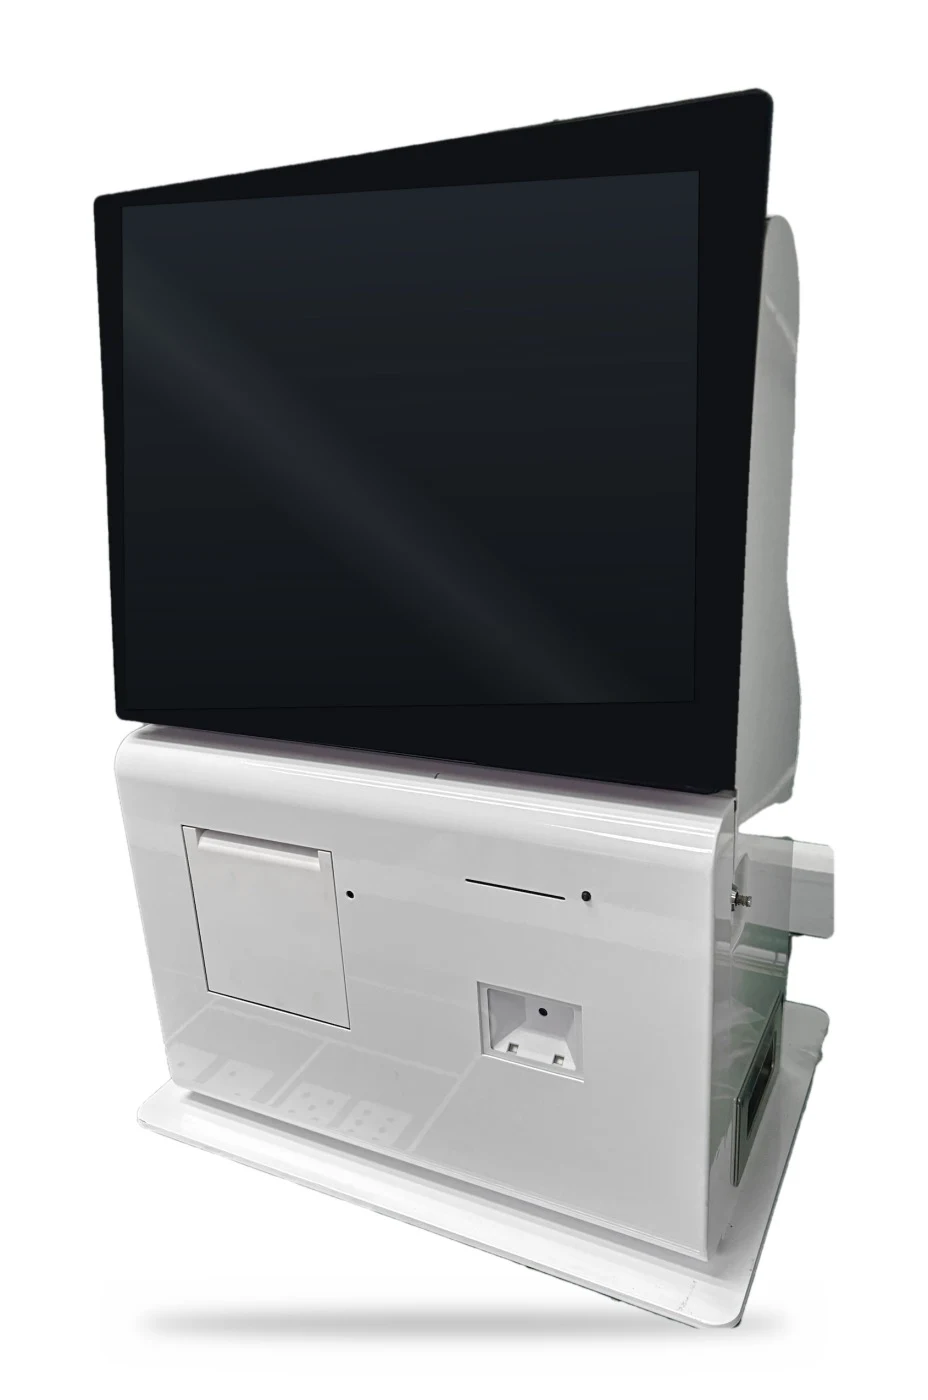
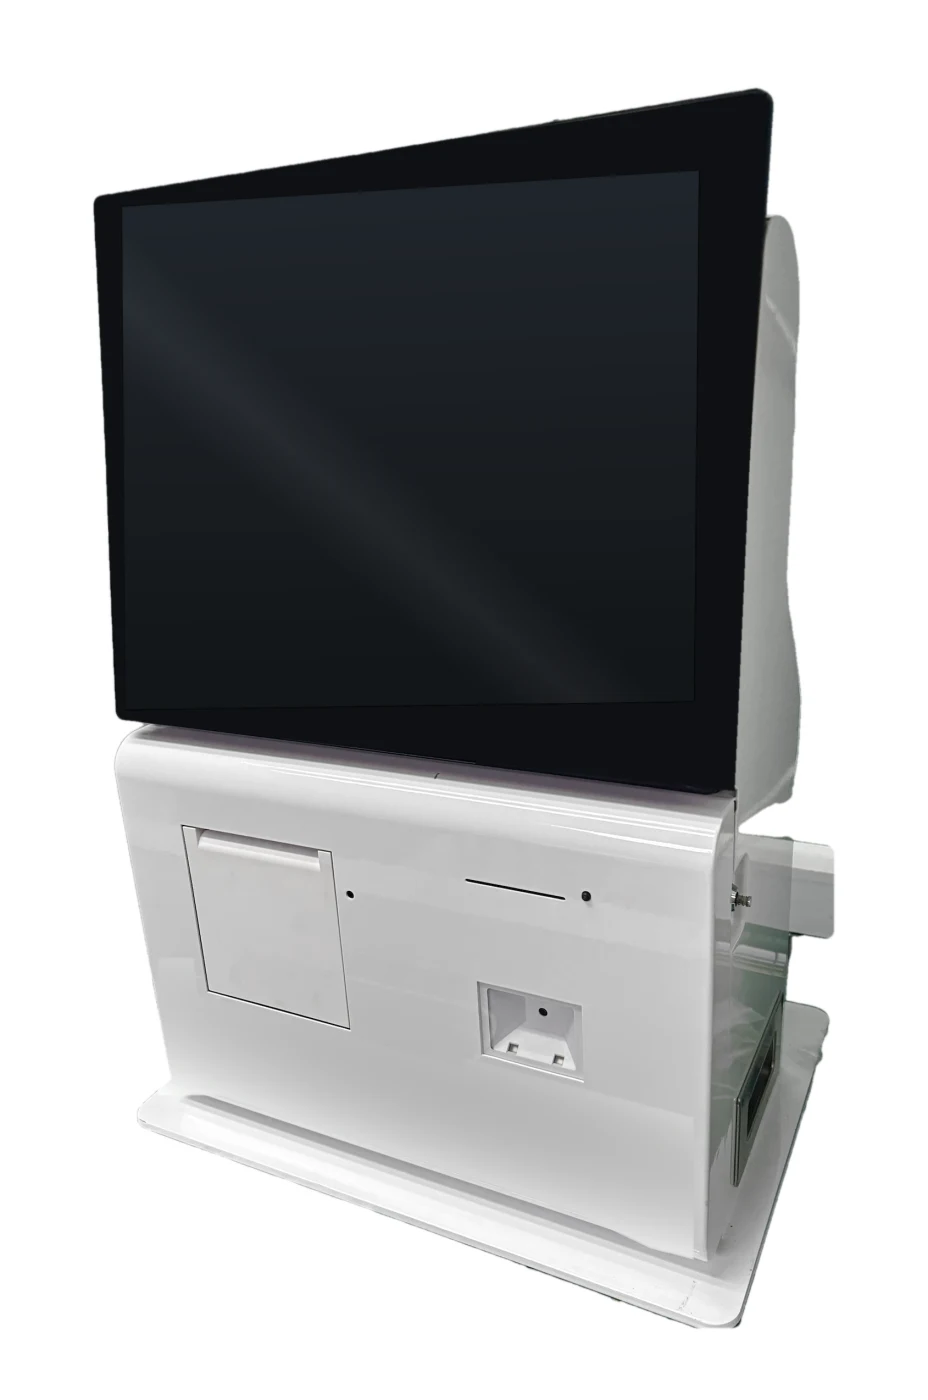
Kiosk photos: remove panel reflections and floor shadow

Changed region(s): [[0.1875, 0.9214, 0.8125, 0.9829]]

diff --git a/jp/edge-ai.html b/jp/edge-ai.html
@@ -304,7 +304,7 @@ header 結束
 <section class="sx-sec alt"><div class="container">
 <h2>Pandora の活用例</h2>
 <p class="lede">Project Pandora 展示会では、1台の Pandora が SMC の卓上型キオスクの中で3つのライブデモを動かしました。</p>
-<div class="sx-product"><figure><img src="/img/solutions/pandora-kiosk-front.webp" alt="Pandora を搭載した SMC 卓上型キオスク" width="1200" height="1600"></figure><ul>
+<div class="sx-product"><figure><img src="/img/solutions/pandora-kiosk-front.webp?v=2" alt="Pandora を搭載した SMC 卓上型キオスク" width="1200" height="1600"></figure><ul>
 <li>スマート物流：RFID 通い箱フローのリアルタイム看板</li>
 <li>スマートリテール：スキャン・現金・レシートのセルフレジ</li>
 <li>ビジョン AI：顔検出と人流分析</li>

diff --git a/jp/ipc.html b/jp/ipc.html
@@ -316,7 +316,7 @@ header 結束
 <section class="sx-sec"><div class="container">
 <h2>卓上型セルフサービスキオスク</h2>
 <p class="lede">カウンターや受付向けのコンパクトモデル。Pandora エッジ AI のデモ用キオスクとしても使用しています。</p>
-<div class="sx-product"><figure><img src="/img/solutions/pandora-kiosk-front.webp" alt="SMC 卓上型セルフサービスキオスク" width="1200" height="1600"></figure><ul>
+<div class="sx-product"><figure><img src="/img/solutions/pandora-kiosk-front.webp?v=2" alt="SMC 卓上型セルフサービスキオスク" width="1200" height="1600"></figure><ul>
 <li>コンパクトな台座に 4:3 タッチパネル</li>
 <li>前面メンテナンス扉内のレシートプリンター</li>
 <li>2D バーコード・QR コードスキャナー</li>

diff --git a/jp/si.html b/jp/si.html
@@ -341,7 +341,7 @@ header 結束
 <section class="sx-sec alt"><div class="container">
 <h2>展示用キオスク</h2>
 <p class="lede">Pandora エッジ AI コンピューターを中心に SMC が製作した卓上型セルフサービスキオスクです。</p>
-<div class="sx-product"><figure><img src="/img/solutions/pandora-kiosk-angle.webp" alt="Project Pandora 展示会で使用した SMC 卓上型キオスク" width="1200" height="1600"></figure><ul>
+<div class="sx-product"><figure><img src="/img/solutions/pandora-kiosk-angle.webp?v=2" alt="Project Pandora 展示会で使用した SMC 卓上型キオスク" width="1200" height="1600"></figure><ul>
 <li>4:3 タッチパネルディスプレイ</li>
 <li>前面メンテナンス扉内のレシートプリンター</li>
 <li>2D バーコード・QR コードスキャナー</li>

diff --git a/tw/edge-ai.html b/tw/edge-ai.html
@@ -297,7 +297,7 @@ header 結束
 <section class="sx-sec alt"><div class="container">
 <h2>Pandora 實際應用</h2>
 <p class="lede">在 Project Pandora 展覽中，一台 Pandora 裝在瑞新電子桌上型自助機內，同時執行三個即時展示。</p>
-<div class="sx-product"><figure><img src="/img/solutions/pandora-kiosk-front.webp" alt="搭載 Pandora 的瑞新電子桌上型自助機" width="1200" height="1600"></figure><ul>
+<div class="sx-product"><figure><img src="/img/solutions/pandora-kiosk-front.webp?v=2" alt="搭載 Pandora 的瑞新電子桌上型自助機" width="1200" height="1600"></figure><ul>
 <li>智慧物流：RFID 貨箱流向即時看板</li>
 <li>智慧零售：掃碼、現金收受與收據列印的自助結帳</li>
 <li>影像 AI：人臉偵測與人流分析</li>

diff --git a/edge-ai.html b/edge-ai.html
@@ -304,7 +304,7 @@ header 結束
 <section class="sx-sec alt"><div class="container">
 <h2>Pandora in action</h2>
 <p class="lede">At the Project Pandora exhibition, one Pandora ran three live demos inside an SMC countertop kiosk.</p>
-<div class="sx-product"><figure><img src="/img/solutions/pandora-kiosk-front.webp" alt="SMC countertop kiosk powered by Pandora" width="1200" height="1600"></figure><ul>
+<div class="sx-product"><figure><img src="/img/solutions/pandora-kiosk-front.webp?v=2" alt="SMC countertop kiosk powered by Pandora" width="1200" height="1600"></figure><ul>
 <li>Smart logistics: live RFID crate flow dashboard</li>
 <li>Smart retail: self-checkout with scanning, cash and receipts</li>
 <li>Vision AI: face detection and people-flow analytics</li>

diff --git a/tw/si.html b/tw/si.html
@@ -334,7 +334,7 @@ header 結束
 <section class="sx-sec alt"><div class="container">
 <h2>展覽用自助機</h2>
 <p class="lede">瑞新電子以 Pandora 邊緣 AI 電腦為核心打造的桌上型自助機。</p>
-<div class="sx-product"><figure><img src="/img/solutions/pandora-kiosk-angle.webp" alt="Project Pandora 展覽使用的瑞新電子桌上型自助機" width="1200" height="1600"></figure><ul>
+<div class="sx-product"><figure><img src="/img/solutions/pandora-kiosk-angle.webp?v=2" alt="Project Pandora 展覽使用的瑞新電子桌上型自助機" width="1200" height="1600"></figure><ul>
 <li>4:3 觸控螢幕</li>
 <li>收據印表機位於前方維修門內</li>
 <li>一維 / 二維條碼與 QR Code 掃描器</li>

diff --git a/si.html b/si.html
@@ -341,7 +341,7 @@ header 結束
 <section class="sx-sec alt"><div class="container">
 <h2>The exhibition kiosk</h2>
 <p class="lede">A countertop self-service kiosk built by SMC around a Pandora edge AI computer.</p>
-<div class="sx-product"><figure><img src="/img/solutions/pandora-kiosk-angle.webp" alt="SMC countertop kiosk used for the Project Pandora exhibition" width="1200" height="1600"></figure><ul>
+<div class="sx-product"><figure><img src="/img/solutions/pandora-kiosk-angle.webp?v=2" alt="SMC countertop kiosk used for the Project Pandora exhibition" width="1200" height="1600"></figure><ul>
 <li>4:3 touchscreen display</li>
 <li>Receipt printer behind a front service door</li>
 <li>2D barcode and QR code scanner</li>

diff --git a/ipc.html b/ipc.html
@@ -316,7 +316,7 @@ header 結束
 <section class="sx-sec"><div class="container">
 <h2>Countertop self-service kiosk</h2>
 <p class="lede">A compact version for counters and service desks, also used as our Pandora edge AI demo kiosk.</p>
-<div class="sx-product"><figure><img src="/img/solutions/pandora-kiosk-front.webp" alt="SMC countertop self-service kiosk" width="1200" height="1600"></figure><ul>
+<div class="sx-product"><figure><img src="/img/solutions/pandora-kiosk-front.webp?v=2" alt="SMC countertop self-service kiosk" width="1200" height="1600"></figure><ul>
 <li>4:3 touchscreen on a compact base</li>
 <li>Receipt printer behind a front service door</li>
 <li>2D barcode and QR code scanner</li>

diff --git a/tw/ipc.html b/tw/ipc.html
@@ -309,7 +309,7 @@ header 結束
 <section class="sx-sec"><div class="container">
 <h2>桌上型自助機</h2>
 <p class="lede">適合櫃檯與服務台的精簡版本，也是我們 Pandora 邊緣 AI 的展示機。</p>
-<div class="sx-product"><figure><img src="/img/solutions/pandora-kiosk-front.webp" alt="瑞新電子桌上型自助機" width="1200" height="1600"></figure><ul>
+<div class="sx-product"><figure><img src="/img/solutions/pandora-kiosk-front.webp?v=2" alt="瑞新電子桌上型自助機" width="1200" height="1600"></figure><ul>
 <li>4:3 觸控螢幕，底座精簡</li>
 <li>收據印表機位於前方維修門內</li>
 <li>一維 / 二維條碼與 QR Code 掃描器</li>
